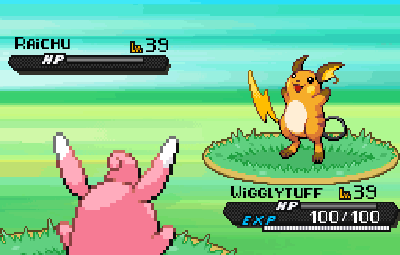
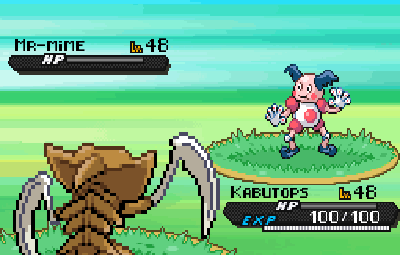
Lower enemy name slightly

diff --git a/pokemon/f.py b/pokemon/f.py
@@ -27,7 +27,7 @@ background.paste(playerbar, (142, 105), playerbar)
 background = background.resize(size=(400, 255))
 draw = ImageDraw.Draw(background)
 #Enemy pokmeon name
-draw.text((15, 35), str.capitalize(pokemon2["name"]), font=font, fill=(0, 0, 0, 255))
+draw.text((15, 37), str.capitalize(pokemon2["name"]), font=font, fill=(0, 0, 0, 255))
 #Player pokemon name
 draw.text((231, 184), str.capitalize(pokemon1["name"]), font=font, fill=(0, 0, 0, 255))
 #Enemy pokmeon level

diff --git a/pokemon/pokemon.py b/pokemon/pokemon.py
@@ -82,7 +82,7 @@ class pokemon:
 
         draw = ImageDraw.Draw(background)
         # Enemy pokmeon name
-        draw.text((15, 35), str.capitalize(pokemon2["name"]), font=self.font, fill=(0, 0, 0, 255))
+        draw.text((15, 37), str.capitalize(pokemon2["name"]), font=self.font, fill=(0, 0, 0, 255))
         # Player pokemon name
         draw.text((231, 184), str.capitalize(pokemon1["name"]), font=self.font, fill=(0, 0, 0, 255))
         # Enemy pokmeon level
